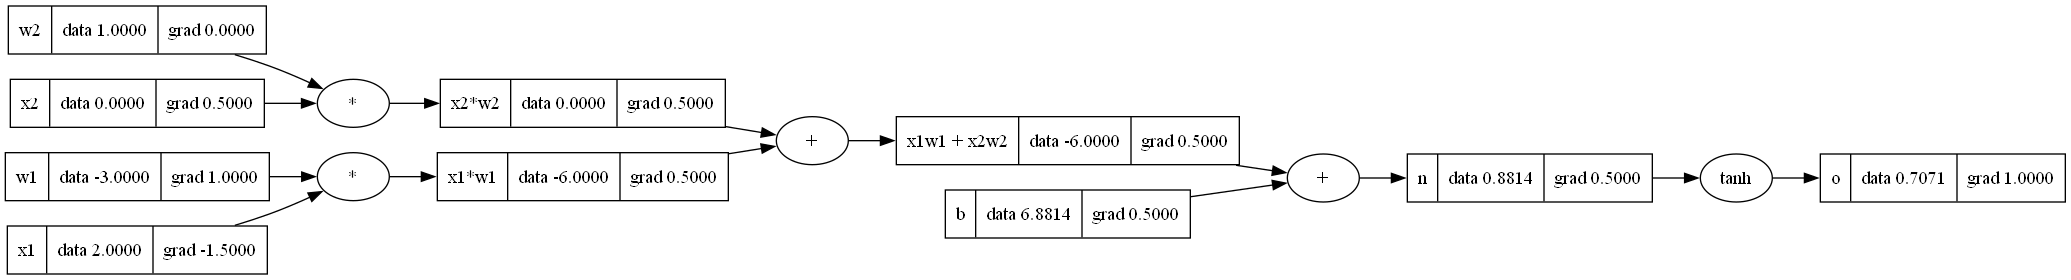
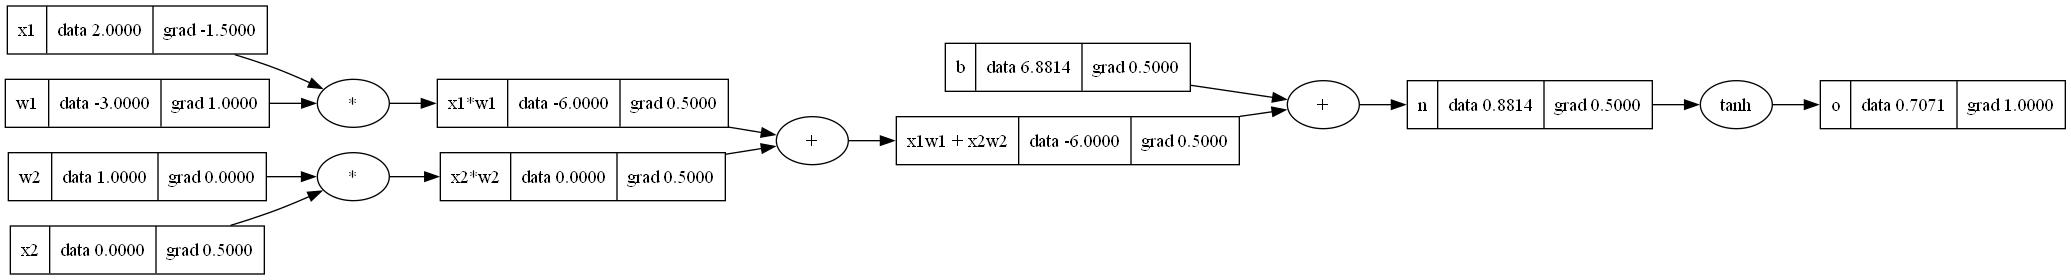
backward method

diff --git a/micrograd.py b/micrograd.py
@@ -83,6 +83,23 @@ class Value:
         out._backward = _backward
 
         return out
+    
+
+    def backward(self):
+        topo = []
+        visited = set()
+        def build_topo(v):
+            if v not in visited:
+                visited.add(v)
+                for child in v._prev:
+                    build_topo(child)
+                topo.append(v)
+        build_topo(self)
+        
+        self.grad = 1.0
+        for node in reversed(topo):
+            node._backward()
+
 
 
 
@@ -105,8 +122,9 @@ def main():
     x1w1x2w2 = x1w1 + x2w2; x1w1x2w2.label = 'x1w1 + x2w2'
     n = x1w1x2w2 + b; n.label = 'n'
     o = n.tanh(); o.label = 'o'
-    o.grad = 1.0
 
+    o.backward()
+    
     dot = draw_dot(o)
     dot.render('graph', format='png', cleanup=True)
 
